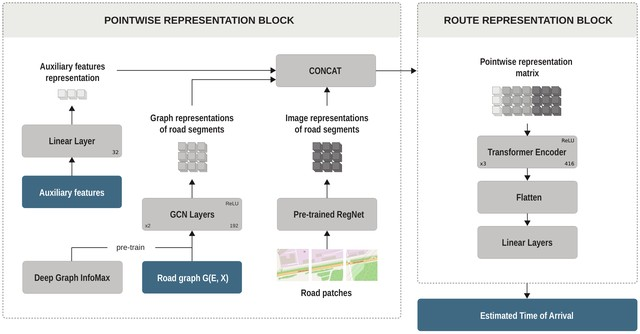
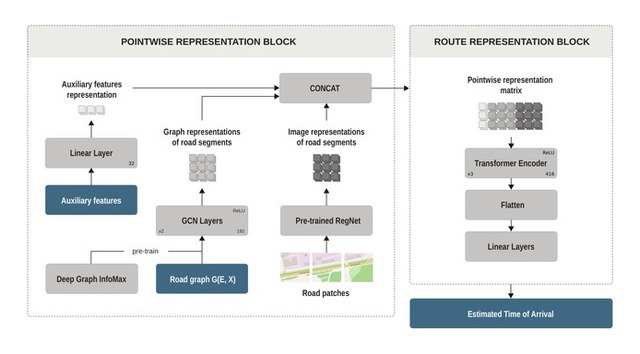
GCT-TTE thumbnail: add margins

diff --git a/index.html b/index.html
@@ -278,7 +278,7 @@
           </article>
 
           <article class="pub">
-            <a class="pub-thumb" href="https://arxiv.org/abs/2306.04324" target="_blank" rel="noopener"><img src="assets/gcttte.jpg" alt="GCT-TTE architecture" loading="lazy"></a>
+            <a class="pub-thumb" href="https://arxiv.org/abs/2306.04324" target="_blank" rel="noopener"><img src="assets/gcttte.jpg?v=2" alt="GCT-TTE architecture" loading="lazy"></a>
             <div>
               <div class="pub-title">
                 GCT-TTE: Graph Convolutional Transformer for Travel Time Estimation
